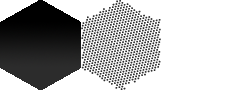
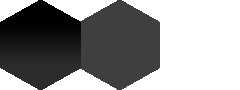
Added intermediate fog hexes (with transparency)

Changed region(s): [[0.3208, 0.0, 0.6708, 1.0]]

diff --git a/js/maindev_testing.js b/js/maindev_testing.js
@@ -84,6 +84,17 @@ function greeting () {
 			
 			// send first player turn msg to sidebar
 			showMsgSide ("<img src='img/gemRed.png' style='float:left; margin: 0 10px 0 0;'/><b>Player 1 Turn</b>");
+			
+			// place intro message in sidebar
+			var canvasStatText = $("#textLayer")[0];
+			var contextStatText = canvasStatText.getContext("2d");
+			
+			contextStatText.font = "italic 14px Georgia";
+		    contextStatText.fillStyle = "gray";
+		    contextStatText.textBaseline = "top";
+			contextStatText.fillText("Tap on a hex to move", 20, 30);
+			contextStatText.fillText("your units", 20, 48);
+			
 			}},
 	});
 }
@@ -279,7 +290,10 @@ function fogOfWar () {
 	
 		var oneFogClear = hexData[fogInHex][3];
 		var twoFogClear = hexData[fogInHex][4];
-		var oneFogHalf = hexData[fogInHex][5];
+		var adjFogHalf = hexData[fogInHex][5];
+		
+		var checkHalfFog1 = fogPlayer1[fogInHex];
+		var checkHalfFog2 = fogPlayer2[fogInHex];
 		
 		//alert ("fog function: " + fogInHex + " and army: " + oneFogClear);
 		
@@ -287,13 +301,15 @@ function fogOfWar () {
 			
 			fogPlayer1[fogInHex] = 160; // place clear hex (no fog)
 			
-			//alert ("adj fog detected: hex " + fogInHex + " is being updated to " + fogPlayer1[fogInHex]);
-			
-			//for (whichHalf=0, whichHalf<oneFogHalf.length, whichHalf++) {
-				//drawHalfFog = oneFogHalf[whichHalf];
-				//fogPlayer1[drawHalfFog] = 80;
-			//}
-			
+			for (whichHalf1=0; whichHalf1<adjFogHalf.length; whichHalf1++) {
+				
+				var drawHalfFog1 = adjFogHalf[whichHalf1];
+				
+				if (drawHalfFog1!=fogInHex && checkHalfFog1==0) {
+					fogPlayer1[drawHalfFog1] = 80; // place partial fog
+				}
+			}
+				
 		//}else{
 			//fogPlayer1[fogInHex] = 0;   // place hidden hex (full fog)
 		}
@@ -301,8 +317,17 @@ function fogOfWar () {
 		if (twoFogClear>0) {
 			
 			fogPlayer2[fogInHex] = 160; // place clear hex (no fog)
+			
+			for (whichHalf2=0; whichHalf2<adjFogHalf.length; whichHalf2++) {
+				
+				var drawHalfFog2 = adjFogHalf[whichHalf2];
+				
+				if (drawHalfFog2!=fogInHex && checkHalfFog2==0) {
+					fogPlayer2[drawHalfFog2] = 80; // place partial fog
+				}
+			}
 		}
-
+		fogPlayer2[0] = 160; // kludge, need to find this bug (initial hex for p2 is fogging unintentionally)
 	}
 	
 	// draw P1 Fog
